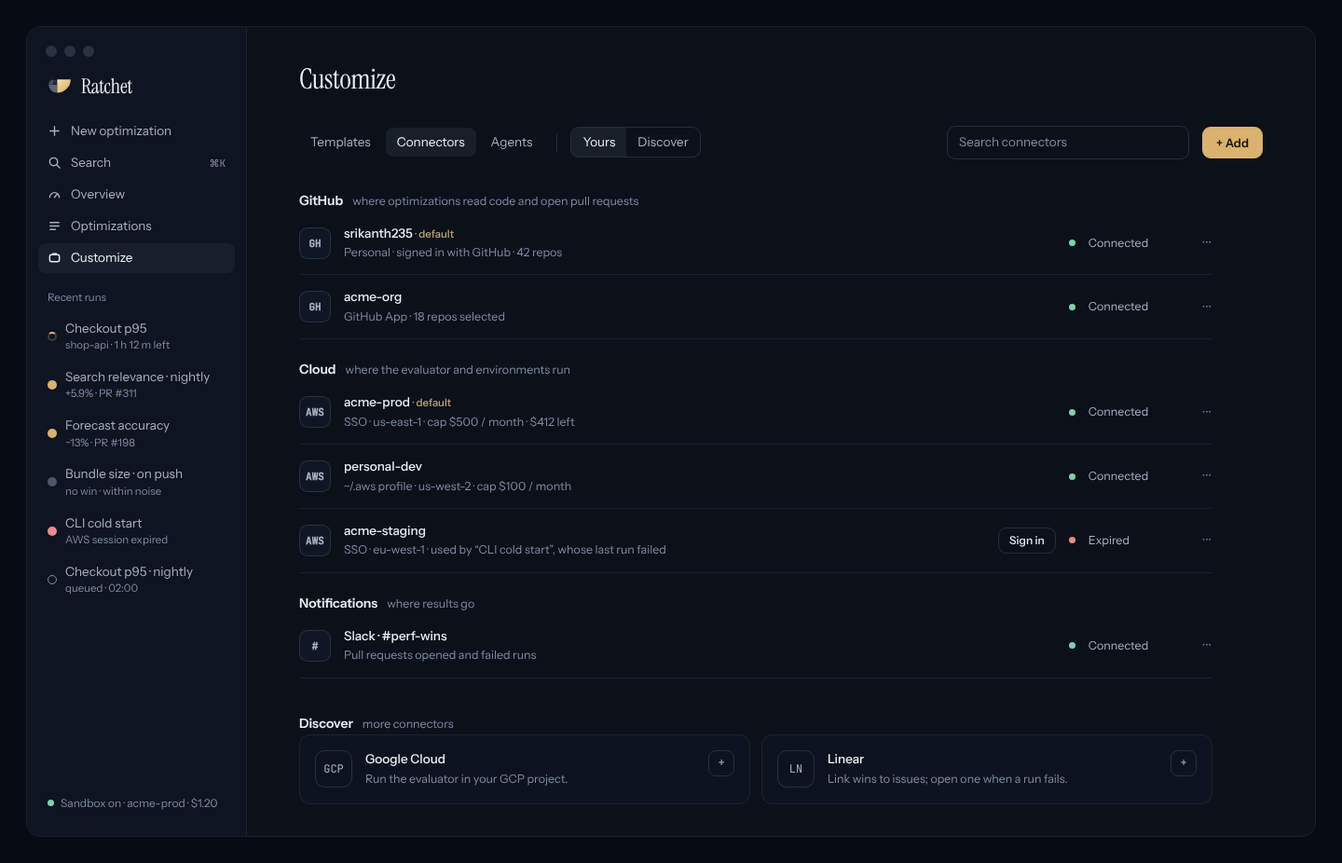
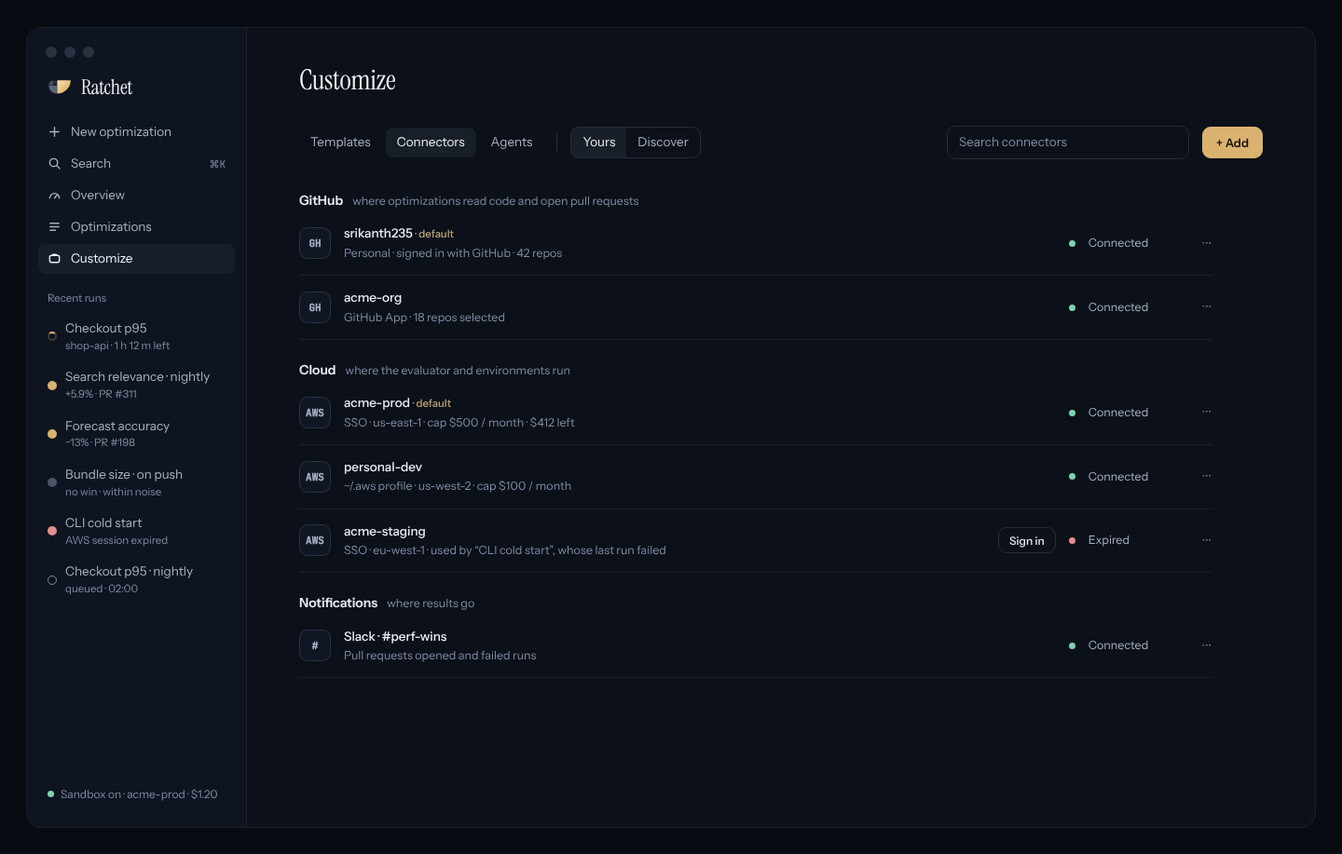
design: Connectors Discover modelled on Claude Code's, Yours shows only your connectors
Claude-Session: https://claude.ai/code/session_01Czk5jfyEWGE8foNtLNfpUK

diff --git a/design/v03-prototype.html b/design/v03-prototype.html
@@ -156,6 +156,25 @@ td .s{color:var(--fa);font-size:12.5px}
 .def .kv>div{padding:10px 0}
 .def .ft{padding:12px 18px;border-top:1px solid var(--line);display:flex;gap:10px;align-items:center}
 .edit{color:var(--br2);font-size:12px;margin-left:8px}
+
+/* connectors discover (modelled on Claude Code's Customize > Connectors) */
+.cur-hero{position:relative;border:1px solid var(--line2);border-radius:16px;padding:30px 80px 30px;text-align:center;background:linear-gradient(180deg,#0F1622 0%,#121B29 45%,#1E2430 100%)}
+.cur-hero .ey{font-size:11.5px;letter-spacing:.1em;text-transform:uppercase;color:var(--fa)}
+.cur-hero .tt{font-family:'Instrument Serif',Georgia,serif;font-size:30px;margin-top:6px}
+.cur-hero .sb{color:var(--mu);margin-top:4px}
+.logos{display:flex;justify-content:center;align-items:center;gap:18px;margin:26px 0 22px}
+.lg{border-radius:14px;background:#151D2B;border:1px solid var(--line2);display:flex;align-items:center;justify-content:center;box-shadow:0 10px 30px rgba(0,0,0,.35)}
+.lg i{display:flex;align-items:center;justify-content:center;border-radius:9px;font:700 15px 'Instrument Sans',sans-serif;font-style:normal;color:#fff}
+.arr{position:absolute;top:50%;transform:translateY(-50%);width:36px;height:36px;border-radius:18px;background:#151D2B;border:1px solid var(--line2);display:flex;align-items:center;justify-content:center;color:var(--mu)}
+.dots{display:flex;justify-content:center;gap:6px;margin-top:12px}.dots i{width:7px;height:7px;border-radius:4px;background:var(--line2)}.dots i.on{width:28px;background:var(--mu)}
+.cgrid{display:grid;grid-template-columns:1fr 1fr;gap:12px}
+.cc{border-radius:14px;background:#0F1520;border:1px solid var(--line);padding:16px;display:flex;gap:14px;align-items:flex-start}
+.cc .lg{width:46px;height:46px;flex:none;box-shadow:none}.cc .lg i{width:30px;height:30px;font-size:13px}
+.cc .n{font-weight:500;display:flex;align-items:center;gap:6px}.cc .d{color:var(--mu);margin-top:3px}.cc .by{color:var(--fa);font-size:12.5px;margin-top:4px}
+.vf{color:var(--fa)}
+.add{margin-left:auto;flex:none;width:30px;height:30px;border-radius:8px;border:1px solid var(--line2);display:flex;align-items:center;justify-content:center;color:var(--mu);font-size:16px}
+.add.done{background:rgba(127,209,174,.12);border-color:rgba(127,209,174,.35);color:var(--mint)}
+.cnt{font:12px 'JetBrains Mono',monospace;color:var(--fa);border:1px solid var(--line2);border-radius:6px;padding:1px 7px;margin-left:8px}
 </style>
 <style>
 :root{color-scheme:dark}
@@ -168,7 +187,7 @@ body{padding-block:16px;padding-left:max(16px,env(safe-area-inset-left,0px));pad
 .hs{margin-left:auto}.hs[aria-pressed="true"]{color:var(--br2);border-color:var(--br2)}
 .stage{width:1440px;margin:0 auto}
 .screen{display:none;padding:0!important;width:1440px}.screen.cur{display:block}
-.nv,.run,.btn,.tabs span,.seg2 span,.send,.sugg span,.tog,.mnav .i,.link,.edit,.chip,.tile .plus,.sel,.composer{cursor:pointer}
+.nv,.run,.btn,.tabs span,.seg2 span,.send,.sugg span,.tog,.mnav .i,.link,.edit,.chip,.tile .plus,.sel,.composer,.add,.arr,.cur-hero .btn{cursor:pointer}
 .nv:hover,.run:hover{background:rgba(148,163,190,.07)}
 .btn:hover,.sugg span:hover,.chip:hover{border-color:var(--br2)}
 .hot .nv,.hot .run,.hot .btn,.hot .tabs span,.hot .seg2 span,.hot .send,.hot .sugg span,.hot .tog,.hot .mnav .i,.hot .link,.hot .edit,.hot .composer{outline:1px dashed rgba(217,178,111,.7);outline-offset:1px}
@@ -178,7 +197,7 @@ body{padding-block:16px;padding-left:max(16px,env(safe-area-inset-left,0px));pad
 :focus-visible{outline:2px solid var(--br2);outline-offset:2px}
 @media (prefers-reduced-motion:reduce){.toast{transition:none}}
 </style>
-<div class="pbar"><span class="nm">Ratchet v0.3 · clickable prototype</span><button type="button" class="pj" data-go="s1">Home</button><button type="button" class="pj" data-go="s9">Overview</button><button type="button" class="pj" data-go="s2">Run</button><button type="button" class="pj" data-go="s3">Optimization</button><button type="button" class="pj" data-go="s4">Templates</button><button type="button" class="pj" data-go="s5">Connectors</button><button type="button" class="pj" data-go="s6">Settings</button><button type="button" class="pj" data-go="s7">Agents</button><button type="button" class="pj" data-go="s8">New optimization</button><button type="button" class="hs" aria-pressed="false">Show hotspots</button></div>
+<div class="pbar"><span class="nm">Ratchet v0.3 · clickable prototype</span><button type="button" class="pj" data-go="s1">Home</button><button type="button" class="pj" data-go="s9">Overview</button><button type="button" class="pj" data-go="s2">Run</button><button type="button" class="pj" data-go="s3">Optimization</button><button type="button" class="pj" data-go="s4">Templates</button><button type="button" class="pj" data-go="s5">Connectors</button><button type="button" class="pj" data-go="s10">Connectors · Discover</button><button type="button" class="pj" data-go="s6">Settings</button><button type="button" class="pj" data-go="s7">Agents</button><button type="button" class="pj" data-go="s8">New optimization</button><button type="button" class="hs" aria-pressed="false">Show hotspots</button></div>
 <div class="stage"><section class="screen" id="s1"><div class="win"><div class="side"><div class="lights" style="padding:4px 8px 14px"><i></i><i></i><i></i></div>
 <div style="display:flex;align-items:center;gap:10px;padding:0 10px 14px"><svg width="26" height="15" viewBox="218 338 600 369"><defs><linearGradient id="brassM" x1="0" y1="0" x2="1" y2="1"><stop offset="0" stop-color="#F8E4B8"/><stop offset=".6" stop-color="#E2BE7C"/><stop offset="1" stop-color="#BE8F49"/></linearGradient></defs><path d="M397.8 434.8L397.8 466.2A31.5 31.5 0 0 1 366.4 434.8Z" fill="#8E9BB2" fill-opacity="0.12"/><path d="M407.7 434.8L407.7 466.2A31.5 31.5 0 0 0 439.2 434.8Z" fill="#8E9BB2" fill-opacity="0.18"/><path d="M361.6 424.9L439.2 424.9A77.6 77.6 0 0 0 361.6 347.3Z" fill="#8E9BB2" fill-opacity="0.28"/><path d="M351.7 471.0L227.9 471.0A123.8 123.8 0 0 1 351.7 347.3Z" fill="#8E9BB2" fill-opacity="0.42"/><path d="M444.0 480.9L444.0 697.0A216.1 216.1 0 0 1 227.9 480.9Z" fill="#8E9BB2" fill-opacity="0.6"/><path d="M453.9 342.5L453.9 697.0A354.5 354.5 0 0 0 808.4 342.5Z" fill="url(#brassM)"/></svg><span class="serif" style="font-size:22px">Ratchet</span></div>
 <div class="nv on"><svg width="15" height="15" viewBox="0 0 16 16" fill="none" stroke="currentColor" stroke-width="1.5" stroke-linecap="round" stroke-linejoin="round"><path d="M8 3v10M3 8h10"/></svg><span>New optimization</span></div>
@@ -333,10 +352,24 @@ body{padding-block:16px;padding-left:max(16px,env(safe-area-inset-left,0px));pad
 <div class="grp" style="margin-top:22px"><b>Notifications</b> where results go</div>
 <div class="row"><span class="logo">#</span><div style="flex:1"><div class="n">Slack · #perf-wins</div><div class="d">Pull requests opened and failed runs</div></div><span class="st"><span class="dot d-ok"></span>Connected</span><span class="more">···</span></div>
 </div>
-<div style="max-width:980px;margin-top:4px"><div class="grp"><b>Discover</b> more connectors</div><div class="grid2c">
-<div class="tile"><span class="ico">GCP</span><div><div class="n">Google Cloud</div><div class="d">Run the evaluator in your GCP project.</div></div><span class="plus">+</span></div>
-<div class="tile"><span class="ico">LN</span><div><div class="n">Linear</div><div class="d">Link wins to issues; open one when a run fails.</div></div><span class="plus">+</span></div>
-</div></div></div></div></section><section class="screen" id="s6"><div class="win" style="position:relative"><div class="side"><div class="lights" style="padding:4px 8px 14px"><i></i><i></i><i></i></div>
+</div></div></section><section class="screen" id="s10"><div class="win" style="position:relative"><div class="side"><div class="lights" style="padding:4px 8px 14px"><i></i><i></i><i></i></div>
+<div style="display:flex;align-items:center;gap:10px;padding:0 10px 14px"><svg width="26" height="15" viewBox="218 338 600 369"><defs><linearGradient id="brassM" x1="0" y1="0" x2="1" y2="1"><stop offset="0" stop-color="#F8E4B8"/><stop offset=".6" stop-color="#E2BE7C"/><stop offset="1" stop-color="#BE8F49"/></linearGradient></defs><path d="M397.8 434.8L397.8 466.2A31.5 31.5 0 0 1 366.4 434.8Z" fill="#8E9BB2" fill-opacity="0.12"/><path d="M407.7 434.8L407.7 466.2A31.5 31.5 0 0 0 439.2 434.8Z" fill="#8E9BB2" fill-opacity="0.18"/><path d="M361.6 424.9L439.2 424.9A77.6 77.6 0 0 0 361.6 347.3Z" fill="#8E9BB2" fill-opacity="0.28"/><path d="M351.7 471.0L227.9 471.0A123.8 123.8 0 0 1 351.7 347.3Z" fill="#8E9BB2" fill-opacity="0.42"/><path d="M444.0 480.9L444.0 697.0A216.1 216.1 0 0 1 227.9 480.9Z" fill="#8E9BB2" fill-opacity="0.6"/><path d="M453.9 342.5L453.9 697.0A354.5 354.5 0 0 0 808.4 342.5Z" fill="url(#brassM)"/></svg><span class="serif" style="font-size:22px">Ratchet</span></div>
+<div class="nv "><svg width="15" height="15" viewBox="0 0 16 16" fill="none" stroke="currentColor" stroke-width="1.5" stroke-linecap="round" stroke-linejoin="round"><path d="M8 3v10M3 8h10"/></svg><span>New optimization</span></div>
+<div class="nv "><svg width="15" height="15" viewBox="0 0 16 16" fill="none" stroke="currentColor" stroke-width="1.5" stroke-linecap="round" stroke-linejoin="round"><circle cx="7" cy="7" r="4.5"/><path d="M10.5 10.5 14 14"/></svg><span>Search</span><kbd>⌘K</kbd></div>
+<div class="nv "><svg width="15" height="15" viewBox="0 0 16 16" fill="none" stroke="currentColor" stroke-width="1.5" stroke-linecap="round" stroke-linejoin="round"><path d="M2.5 11.5a5.5 5.5 0 1 1 11 0"/><path d="M8 11.5l2.8-3.6"/></svg><span>Overview</span></div>
+<div class="nv "><svg width="15" height="15" viewBox="0 0 16 16" fill="none" stroke="currentColor" stroke-width="1.5" stroke-linecap="round" stroke-linejoin="round"><path d="M3 4h10M3 8h10M3 12h6"/></svg><span>Optimizations</span></div>
+<div class="nv on"><svg width="15" height="15" viewBox="0 0 16 16" fill="none" stroke="currentColor" stroke-width="1.5" stroke-linecap="round" stroke-linejoin="round"><rect x="2.5" y="4.5" width="11" height="8" rx="2"/><path d="M6 4.5V3.5h4v1"/></svg><span>Customize</span></div>
+<div class="sec">Recent runs</div><div class="run "><span class="spin"></span><div style="flex:1;min-width:0"><div class="ttl">Checkout p95</div><div class="meta">shop-api · 1 h 12 m left</div></div></div><div class="run "><span class="ic gold"></span><div style="flex:1;min-width:0"><div class="ttl">Search relevance · nightly</div><div class="meta">+5.9% · PR #311</div></div></div><div class="run "><span class="ic gold"></span><div style="flex:1;min-width:0"><div class="ttl">Forecast accuracy</div><div class="meta">−13% · PR #198</div></div></div><div class="run "><span class="ic no"></span><div style="flex:1;min-width:0"><div class="ttl">Bundle size · on push</div><div class="meta">no win · within noise</div></div></div><div class="run "><span class="ic fail"></span><div style="flex:1;min-width:0"><div class="ttl">CLI cold start</div><div class="meta">AWS session expired</div></div></div><div class="run "><span class="ic q"></span><div style="flex:1;min-width:0"><div class="ttl">Checkout p95 · nightly</div><div class="meta">queued · 02:00</div></div></div><div style="margin-top:auto;padding:10px;color:var(--fa);font-size:12px"><span class="dot d-ok"></span>Sandbox on · acme-prod · $1.20</div></div><div class="main">
+<div class="rh"><div class="serif" style="font-size:30px">Customize</div></div>
+<div style="display:flex;align-items:center;gap:14px"><div class="tabs"><span>Templates</span><span class="on">Connectors</span><span>Agents</span></div><span style="width:1px;height:20px;background:var(--line2)"></span><div class="seg2"><span>Yours</span><span class="on">Discover</span></div>
+<div class="field" style="max-width:260px;margin-left:auto">Search connectors</div><span class="btn pri">+ Add ▾</span></div>
+<div><div class="cur-hero"><span class="arr" style="left:20px">‹</span><span class="arr" style="right:20px">›</span>
+<div class="ey">Curated by Ratchet</div><div class="tt">Measure against production</div><div class="sb">Pull real traffic shapes and baselines from your observability stack, so wins hold up after merge.</div>
+<div class="logos"><div style="margin-top:0px"><span class="lg" style="width:74px;height:74px"><i style="width:50px;height:50px;background:#632CA6;font-size:17px">Dd</i></span></div><div style="margin-top:30px"><span class="lg" style="width:88px;height:88px"><i style="width:59px;height:59px;background:#E2662A;font-size:21px">Gf</i></span></div><div style="margin-top:-10px"><span class="lg" style="width:112px;height:112px"><i style="width:76px;height:76px;background:#2C6CE5;font-size:26px">Hc</i></span></div><div style="margin-top:36px"><span class="lg" style="width:80px;height:80px"><i style="width:54px;height:54px;background:#362D59;font-size:19px">Se</i></span></div><div style="margin-top:-6px"><span class="lg" style="width:96px;height:96px"><i style="width:65px;height:65px;background:#1A7F64;font-size:23px">NR</i></span></div><div style="margin-top:22px"><span class="lg" style="width:78px;height:78px"><i style="width:53px;height:53px;background:#C4462B;font-size:18px">Pm</i></span></div></div><span class="btn">Explore</span></div>
+<div class="dots"><i></i><i class="on"></i><i></i></div></div>
+<div><div style="display:flex;align-items:baseline;margin-bottom:14px"><span style="font-weight:600;font-size:14px">Top connectors</span><span class="cnt">24</span><span class="link" style="margin-left:auto;font-family:inherit">Show all →</span></div>
+<div class="cgrid"><div class="cc"><span class="lg"><i style="background:#24292F;font-size:13px">GH</i></span><div style="flex:1;min-width:0"><div class="n">GitHub <svg class="vf" width="14" height="14" viewBox="0 0 16 16" fill="none" stroke="currentColor" stroke-width="1.3"><path d="M8 1.5l1.6 1.2 2-.1.6 1.9 1.6 1.2-.6 1.9.6 1.9-1.6 1.2-.6 1.9-2-.1L8 14.5l-1.6-1.2-2 .1-.6-1.9-1.6-1.2.6-1.9-.6-1.9 1.6-1.2.6-1.9 2 .1z"/><path d="M5.6 8.2l1.6 1.6 3.2-3.4"/></svg></div><div class="d">Read code and open pull requests with wins</div><div class="by">by Ratchet</div></div><span class="add done">✓</span></div><div class="cc"><span class="lg"><i style="background:#B9702A;font-size:10px">AWS</i></span><div style="flex:1;min-width:0"><div class="n">Amazon Web Services <svg class="vf" width="14" height="14" viewBox="0 0 16 16" fill="none" stroke="currentColor" stroke-width="1.3"><path d="M8 1.5l1.6 1.2 2-.1.6 1.9 1.6 1.2-.6 1.9.6 1.9-1.6 1.2-.6 1.9-2-.1L8 14.5l-1.6-1.2-2 .1-.6-1.9-1.6-1.2.6-1.9-.6-1.9 1.6-1.2.6-1.9 2 .1z"/><path d="M5.6 8.2l1.6 1.6 3.2-3.4"/></svg></div><div class="d">Run the evaluator and environments in your account</div><div class="by">by Ratchet</div></div><span class="add done">✓</span></div><div class="cc"><span class="lg"><i style="background:#3A6FD8;font-size:10px">GCP</i></span><div style="flex:1;min-width:0"><div class="n">Google Cloud <svg class="vf" width="14" height="14" viewBox="0 0 16 16" fill="none" stroke="currentColor" stroke-width="1.3"><path d="M8 1.5l1.6 1.2 2-.1.6 1.9 1.6 1.2-.6 1.9.6 1.9-1.6 1.2-.6 1.9-2-.1L8 14.5l-1.6-1.2-2 .1-.6-1.9-1.6-1.2.6-1.9-.6-1.9 1.6-1.2.6-1.9 2 .1z"/><path d="M5.6 8.2l1.6 1.6 3.2-3.4"/></svg></div><div class="d">Run the evaluator and environments in your GCP project</div><div class="by">by Ratchet</div></div><span class="add">+</span></div><div class="cc"><span class="lg"><i style="background:#1F6FC0;font-size:13px">Az</i></span><div style="flex:1;min-width:0"><div class="n">Microsoft Azure <svg class="vf" width="14" height="14" viewBox="0 0 16 16" fill="none" stroke="currentColor" stroke-width="1.3"><path d="M8 1.5l1.6 1.2 2-.1.6 1.9 1.6 1.2-.6 1.9.6 1.9-1.6 1.2-.6 1.9-2-.1L8 14.5l-1.6-1.2-2 .1-.6-1.9-1.6-1.2.6-1.9-.6-1.9 1.6-1.2.6-1.9 2 .1z"/><path d="M5.6 8.2l1.6 1.6 3.2-3.4"/></svg></div><div class="d">Run the evaluator in an Azure subscription</div><div class="by">by Ratchet</div></div><span class="add">+</span></div><div class="cc"><span class="lg"><i style="background:#C2491D;font-size:13px">GL</i></span><div style="flex:1;min-width:0"><div class="n">GitLab <svg class="vf" width="14" height="14" viewBox="0 0 16 16" fill="none" stroke="currentColor" stroke-width="1.3"><path d="M8 1.5l1.6 1.2 2-.1.6 1.9 1.6 1.2-.6 1.9.6 1.9-1.6 1.2-.6 1.9-2-.1L8 14.5l-1.6-1.2-2 .1-.6-1.9-1.6-1.2.6-1.9-.6-1.9 1.6-1.2.6-1.9 2 .1z"/><path d="M5.6 8.2l1.6 1.6 3.2-3.4"/></svg></div><div class="d">Read code and open merge requests</div><div class="by">by Ratchet</div></div><span class="add">+</span></div><div class="cc"><span class="lg"><i style="background:#632CA6;font-size:13px">Dd</i></span><div style="flex:1;min-width:0"><div class="n">Datadog <svg class="vf" width="14" height="14" viewBox="0 0 16 16" fill="none" stroke="currentColor" stroke-width="1.3"><path d="M8 1.5l1.6 1.2 2-.1.6 1.9 1.6 1.2-.6 1.9.6 1.9-1.6 1.2-.6 1.9-2-.1L8 14.5l-1.6-1.2-2 .1-.6-1.9-1.6-1.2.6-1.9-.6-1.9 1.6-1.2.6-1.9 2 .1z"/><path d="M5.6 8.2l1.6 1.6 3.2-3.4"/></svg></div><div class="d">Baselines and traffic shape from production APM</div><div class="by">by Datadog</div></div><span class="add">+</span></div><div class="cc"><span class="lg"><i style="background:#4A154B;font-size:13px">#</i></span><div style="flex:1;min-width:0"><div class="n">Slack <svg class="vf" width="14" height="14" viewBox="0 0 16 16" fill="none" stroke="currentColor" stroke-width="1.3"><path d="M8 1.5l1.6 1.2 2-.1.6 1.9 1.6 1.2-.6 1.9.6 1.9-1.6 1.2-.6 1.9-2-.1L8 14.5l-1.6-1.2-2 .1-.6-1.9-1.6-1.2.6-1.9-.6-1.9 1.6-1.2.6-1.9 2 .1z"/><path d="M5.6 8.2l1.6 1.6 3.2-3.4"/></svg></div><div class="d">Post opened pull requests and failed runs</div><div class="by">by Slack</div></div><span class="add done">✓</span></div><div class="cc"><span class="lg"><i style="background:#4F57C9;font-size:13px">LN</i></span><div style="flex:1;min-width:0"><div class="n">Linear <svg class="vf" width="14" height="14" viewBox="0 0 16 16" fill="none" stroke="currentColor" stroke-width="1.3"><path d="M8 1.5l1.6 1.2 2-.1.6 1.9 1.6 1.2-.6 1.9.6 1.9-1.6 1.2-.6 1.9-2-.1L8 14.5l-1.6-1.2-2 .1-.6-1.9-1.6-1.2.6-1.9-.6-1.9 1.6-1.2.6-1.9 2 .1z"/><path d="M5.6 8.2l1.6 1.6 3.2-3.4"/></svg></div><div class="d">Link wins to issues; file one when a run fails</div><div class="by">by Linear</div></div><span class="add">+</span></div></div></div>
+</div></div></section><section class="screen" id="s6"><div class="win" style="position:relative"><div class="side"><div class="lights" style="padding:4px 8px 14px"><i></i><i></i><i></i></div>
 <div style="display:flex;align-items:center;gap:10px;padding:0 10px 14px"><svg width="26" height="15" viewBox="218 338 600 369"><defs><linearGradient id="brassM" x1="0" y1="0" x2="1" y2="1"><stop offset="0" stop-color="#F8E4B8"/><stop offset=".6" stop-color="#E2BE7C"/><stop offset="1" stop-color="#BE8F49"/></linearGradient></defs><path d="M397.8 434.8L397.8 466.2A31.5 31.5 0 0 1 366.4 434.8Z" fill="#8E9BB2" fill-opacity="0.12"/><path d="M407.7 434.8L407.7 466.2A31.5 31.5 0 0 0 439.2 434.8Z" fill="#8E9BB2" fill-opacity="0.18"/><path d="M361.6 424.9L439.2 424.9A77.6 77.6 0 0 0 361.6 347.3Z" fill="#8E9BB2" fill-opacity="0.28"/><path d="M351.7 471.0L227.9 471.0A123.8 123.8 0 0 1 351.7 347.3Z" fill="#8E9BB2" fill-opacity="0.42"/><path d="M444.0 480.9L444.0 697.0A216.1 216.1 0 0 1 227.9 480.9Z" fill="#8E9BB2" fill-opacity="0.6"/><path d="M453.9 342.5L453.9 697.0A354.5 354.5 0 0 0 808.4 342.5Z" fill="url(#brassM)"/></svg><span class="serif" style="font-size:22px">Ratchet</span></div>
 <div class="nv on"><svg width="15" height="15" viewBox="0 0 16 16" fill="none" stroke="currentColor" stroke-width="1.5" stroke-linecap="round" stroke-linejoin="round"><path d="M8 3v10M3 8h10"/></svg><span>New optimization</span></div>
 <div class="nv "><svg width="15" height="15" viewBox="0 0 16 16" fill="none" stroke="currentColor" stroke-width="1.5" stroke-linecap="round" stroke-linejoin="round"><circle cx="7" cy="7" r="4.5"/><path d="M10.5 10.5 14 14"/></svg><span>Search</span><kbd>⌘K</kbd></div>
@@ -427,7 +460,7 @@ body{padding-block:16px;padding-left:max(16px,env(safe-area-inset-left,0px));pad
 <div class="toast" role="status" aria-live="polite"></div>
 <script>
 (function(){
-const N={"s1": "Home", "s2": "Run", "s3": "Optimization", "s4": "Templates", "s5": "Connectors", "s6": "Settings", "s7": "Agents", "s8": "New optimization", "s9": "Overview"};
+const N={"s1": "Home", "s2": "Run", "s3": "Optimization", "s4": "Templates", "s5": "Connectors", "s6": "Settings", "s7": "Agents", "s8": "New optimization", "s9": "Overview", "s10": "Connectors · Discover"};
 let cur='s9',prev='s9';
 const stage=document.querySelector('.stage');
 function fit(){const w=Math.min(1,(document.documentElement.clientWidth-32)/1440);stage.style.zoom=w;document.querySelector('.pbar').style.maxWidth=(1440*w)+'px'}
@@ -449,7 +482,9 @@ document.addEventListener('click',ev=>{
  if(cur==='s6'&&el.closest('#s6')&&!el.closest('.modal')&&!el.closest('.side'))return go(prev);
  if(x=el.closest('.nv')){const k=t(x.querySelector('span')||x);if(k==='Search')toast('Search: ⌘K');return go(nav[k]||'s1')}
  if(x=el.closest('.run')){return go(/queued/.test(x.textContent)?'s3':'s2')}
- if(x=el.closest('.tabs span,.seg2 span,.mnav .i')){const g=x.parentElement;g.querySelectorAll(':scope>.on').forEach(o=>o.classList.remove('on'));x.classList.add('on');const k=t(x);if(tabs[k])go(tabs[k]);return}
+ if(x=el.closest('.tabs span,.seg2 span,.mnav .i')){const g=x.parentElement;g.querySelectorAll(':scope>.on').forEach(o=>o.classList.remove('on'));x.classList.add('on');const k=t(x);if((cur==='s5'||cur==='s10')&&(k==='Yours'||k==='Discover'))return go(k==='Yours'?'s5':'s10');if(tabs[k])go(tabs[k]);return}
+ if(x=el.closest('.add')){const on=!x.classList.contains('done');x.classList.toggle('done',on);x.textContent=on?'✓':'+';const n=x.parentElement.querySelector('.n').textContent.trim();return toast(on?n+' added · pick it per optimization':n+' removed')}
+ if(x=el.closest('.arr')){return toast('Next collection: Cloud providers')}
  if(x=el.closest('.tog')){x.classList.toggle('on');return}
  if(x=el.closest('.btn')){const k=t(x);
   if(k==='Create optimization'){toast('Created · first run tonight at 02:00');return go('s3')}
@@ -460,7 +495,8 @@ document.addEventListener('click',ev=>{
   if(k==='Pause'){x.textContent='Resume';return toast('Paused · no runs until you resume')}
   if(k==='Resume'){x.textContent='Pause';return toast('Resumed')}
   if(k==='Sign in')return toast('Opens codex login in Terminal');
-  if(k==='+ Add')return toast('Add a connector');
+  if(/^\+ Add/.test(k))return toast('Add a connector: GitHub, cloud, notifications or custom MCP');
+  if(k==='Explore')return toast('Observability connectors: Datadog, Grafana, Honeycomb, Sentry, New Relic, Prometheus');
   return toast(k)}
  if(cur==='s1'&&(x=el.closest('.send,.sugg span,.composer')))return go('s8');
  if(x=el.closest('.edit'))return toast('Edit inline, or say it in plain words below');

diff --git a/design/v03.html b/design/v03.html
@@ -154,6 +154,25 @@ td .s{color:var(--fa);font-size:12.5px}
 .def .kv>div{padding:10px 0}
 .def .ft{padding:12px 18px;border-top:1px solid var(--line);display:flex;gap:10px;align-items:center}
 .edit{color:var(--br2);font-size:12px;margin-left:8px}
+
+/* connectors discover (modelled on Claude Code's Customize > Connectors) */
+.cur-hero{position:relative;border:1px solid var(--line2);border-radius:16px;padding:30px 80px 30px;text-align:center;background:linear-gradient(180deg,#0F1622 0%,#121B29 45%,#1E2430 100%)}
+.cur-hero .ey{font-size:11.5px;letter-spacing:.1em;text-transform:uppercase;color:var(--fa)}
+.cur-hero .tt{font-family:'Instrument Serif',Georgia,serif;font-size:30px;margin-top:6px}
+.cur-hero .sb{color:var(--mu);margin-top:4px}
+.logos{display:flex;justify-content:center;align-items:center;gap:18px;margin:26px 0 22px}
+.lg{border-radius:14px;background:#151D2B;border:1px solid var(--line2);display:flex;align-items:center;justify-content:center;box-shadow:0 10px 30px rgba(0,0,0,.35)}
+.lg i{display:flex;align-items:center;justify-content:center;border-radius:9px;font:700 15px 'Instrument Sans',sans-serif;font-style:normal;color:#fff}
+.arr{position:absolute;top:50%;transform:translateY(-50%);width:36px;height:36px;border-radius:18px;background:#151D2B;border:1px solid var(--line2);display:flex;align-items:center;justify-content:center;color:var(--mu)}
+.dots{display:flex;justify-content:center;gap:6px;margin-top:12px}.dots i{width:7px;height:7px;border-radius:4px;background:var(--line2)}.dots i.on{width:28px;background:var(--mu)}
+.cgrid{display:grid;grid-template-columns:1fr 1fr;gap:12px}
+.cc{border-radius:14px;background:#0F1520;border:1px solid var(--line);padding:16px;display:flex;gap:14px;align-items:flex-start}
+.cc .lg{width:46px;height:46px;flex:none;box-shadow:none}.cc .lg i{width:30px;height:30px;font-size:13px}
+.cc .n{font-weight:500;display:flex;align-items:center;gap:6px}.cc .d{color:var(--mu);margin-top:3px}.cc .by{color:var(--fa);font-size:12.5px;margin-top:4px}
+.vf{color:var(--fa)}
+.add{margin-left:auto;flex:none;width:30px;height:30px;border-radius:8px;border:1px solid var(--line2);display:flex;align-items:center;justify-content:center;color:var(--mu);font-size:16px}
+.add.done{background:rgba(127,209,174,.12);border-color:rgba(127,209,174,.35);color:var(--mint)}
+.cnt{font:12px 'JetBrains Mono',monospace;color:var(--fa);border:1px solid var(--line2);border-radius:6px;padding:1px 7px;margin-left:8px}
 </style></head><body>
 <section class="screen" id="s1"><div class="win"><div class="side"><div class="lights" style="padding:4px 8px 14px"><i></i><i></i><i></i></div>
 <div style="display:flex;align-items:center;gap:10px;padding:0 10px 14px"><svg width="26" height="15" viewBox="218 338 600 369"><defs><linearGradient id="brassM" x1="0" y1="0" x2="1" y2="1"><stop offset="0" stop-color="#F8E4B8"/><stop offset=".6" stop-color="#E2BE7C"/><stop offset="1" stop-color="#BE8F49"/></linearGradient></defs><path d="M397.8 434.8L397.8 466.2A31.5 31.5 0 0 1 366.4 434.8Z" fill="#8E9BB2" fill-opacity="0.12"/><path d="M407.7 434.8L407.7 466.2A31.5 31.5 0 0 0 439.2 434.8Z" fill="#8E9BB2" fill-opacity="0.18"/><path d="M361.6 424.9L439.2 424.9A77.6 77.6 0 0 0 361.6 347.3Z" fill="#8E9BB2" fill-opacity="0.28"/><path d="M351.7 471.0L227.9 471.0A123.8 123.8 0 0 1 351.7 347.3Z" fill="#8E9BB2" fill-opacity="0.42"/><path d="M444.0 480.9L444.0 697.0A216.1 216.1 0 0 1 227.9 480.9Z" fill="#8E9BB2" fill-opacity="0.6"/><path d="M453.9 342.5L453.9 697.0A354.5 354.5 0 0 0 808.4 342.5Z" fill="url(#brassM)"/></svg><span class="serif" style="font-size:22px">Ratchet</span></div>
@@ -314,10 +333,25 @@ td .s{color:var(--fa);font-size:12.5px}
 <div class="grp" style="margin-top:22px"><b>Notifications</b> where results go</div>
 <div class="row"><span class="logo">#</span><div style="flex:1"><div class="n">Slack · #perf-wins</div><div class="d">Pull requests opened and failed runs</div></div><span class="st"><span class="dot d-ok"></span>Connected</span><span class="more">···</span></div>
 </div>
-<div style="max-width:980px;margin-top:4px"><div class="grp"><b>Discover</b> more connectors</div><div class="grid2c">
-<div class="tile"><span class="ico">GCP</span><div><div class="n">Google Cloud</div><div class="d">Run the evaluator in your GCP project.</div></div><span class="plus">+</span></div>
-<div class="tile"><span class="ico">LN</span><div><div class="n">Linear</div><div class="d">Link wins to issues; open one when a run fails.</div></div><span class="plus">+</span></div>
-</div></div></div></div></section><section class="screen" id="s6"><div class="win" style="position:relative"><div class="side"><div class="lights" style="padding:4px 8px 14px"><i></i><i></i><i></i></div>
+</div></div></section>
+<section class="screen" id="s10"><div class="win" style="position:relative"><div class="side"><div class="lights" style="padding:4px 8px 14px"><i></i><i></i><i></i></div>
+<div style="display:flex;align-items:center;gap:10px;padding:0 10px 14px"><svg width="26" height="15" viewBox="218 338 600 369"><defs><linearGradient id="brassM" x1="0" y1="0" x2="1" y2="1"><stop offset="0" stop-color="#F8E4B8"/><stop offset=".6" stop-color="#E2BE7C"/><stop offset="1" stop-color="#BE8F49"/></linearGradient></defs><path d="M397.8 434.8L397.8 466.2A31.5 31.5 0 0 1 366.4 434.8Z" fill="#8E9BB2" fill-opacity="0.12"/><path d="M407.7 434.8L407.7 466.2A31.5 31.5 0 0 0 439.2 434.8Z" fill="#8E9BB2" fill-opacity="0.18"/><path d="M361.6 424.9L439.2 424.9A77.6 77.6 0 0 0 361.6 347.3Z" fill="#8E9BB2" fill-opacity="0.28"/><path d="M351.7 471.0L227.9 471.0A123.8 123.8 0 0 1 351.7 347.3Z" fill="#8E9BB2" fill-opacity="0.42"/><path d="M444.0 480.9L444.0 697.0A216.1 216.1 0 0 1 227.9 480.9Z" fill="#8E9BB2" fill-opacity="0.6"/><path d="M453.9 342.5L453.9 697.0A354.5 354.5 0 0 0 808.4 342.5Z" fill="url(#brassM)"/></svg><span class="serif" style="font-size:22px">Ratchet</span></div>
+<div class="nv "><svg width="15" height="15" viewBox="0 0 16 16" fill="none" stroke="currentColor" stroke-width="1.5" stroke-linecap="round" stroke-linejoin="round"><path d="M8 3v10M3 8h10"/></svg><span>New optimization</span></div>
+<div class="nv "><svg width="15" height="15" viewBox="0 0 16 16" fill="none" stroke="currentColor" stroke-width="1.5" stroke-linecap="round" stroke-linejoin="round"><circle cx="7" cy="7" r="4.5"/><path d="M10.5 10.5 14 14"/></svg><span>Search</span><kbd>⌘K</kbd></div>
+<div class="nv "><svg width="15" height="15" viewBox="0 0 16 16" fill="none" stroke="currentColor" stroke-width="1.5" stroke-linecap="round" stroke-linejoin="round"><path d="M2.5 11.5a5.5 5.5 0 1 1 11 0"/><path d="M8 11.5l2.8-3.6"/></svg><span>Overview</span></div>
+<div class="nv "><svg width="15" height="15" viewBox="0 0 16 16" fill="none" stroke="currentColor" stroke-width="1.5" stroke-linecap="round" stroke-linejoin="round"><path d="M3 4h10M3 8h10M3 12h6"/></svg><span>Optimizations</span></div>
+<div class="nv on"><svg width="15" height="15" viewBox="0 0 16 16" fill="none" stroke="currentColor" stroke-width="1.5" stroke-linecap="round" stroke-linejoin="round"><rect x="2.5" y="4.5" width="11" height="8" rx="2"/><path d="M6 4.5V3.5h4v1"/></svg><span>Customize</span></div>
+<div class="sec">Recent runs</div><div class="run "><span class="spin"></span><div style="flex:1;min-width:0"><div class="ttl">Checkout p95</div><div class="meta">shop-api · 1 h 12 m left</div></div></div><div class="run "><span class="ic gold"></span><div style="flex:1;min-width:0"><div class="ttl">Search relevance · nightly</div><div class="meta">+5.9% · PR #311</div></div></div><div class="run "><span class="ic gold"></span><div style="flex:1;min-width:0"><div class="ttl">Forecast accuracy</div><div class="meta">−13% · PR #198</div></div></div><div class="run "><span class="ic no"></span><div style="flex:1;min-width:0"><div class="ttl">Bundle size · on push</div><div class="meta">no win · within noise</div></div></div><div class="run "><span class="ic fail"></span><div style="flex:1;min-width:0"><div class="ttl">CLI cold start</div><div class="meta">AWS session expired</div></div></div><div class="run "><span class="ic q"></span><div style="flex:1;min-width:0"><div class="ttl">Checkout p95 · nightly</div><div class="meta">queued · 02:00</div></div></div><div style="margin-top:auto;padding:10px;color:var(--fa);font-size:12px"><span class="dot d-ok"></span>Sandbox on · acme-prod · $1.20</div></div><div class="main">
+<div class="rh"><div class="serif" style="font-size:30px">Customize</div></div>
+<div style="display:flex;align-items:center;gap:14px"><div class="tabs"><span>Templates</span><span class="on">Connectors</span><span>Agents</span></div><span style="width:1px;height:20px;background:var(--line2)"></span><div class="seg2"><span>Yours</span><span class="on">Discover</span></div>
+<div class="field" style="max-width:260px;margin-left:auto">Search connectors</div><span class="btn pri">+ Add ▾</span></div>
+<div><div class="cur-hero"><span class="arr" style="left:20px">‹</span><span class="arr" style="right:20px">›</span>
+<div class="ey">Curated by Ratchet</div><div class="tt">Measure against production</div><div class="sb">Pull real traffic shapes and baselines from your observability stack, so wins hold up after merge.</div>
+<div class="logos"><div style="margin-top:0px"><span class="lg" style="width:74px;height:74px"><i style="width:50px;height:50px;background:#632CA6;font-size:17px">Dd</i></span></div><div style="margin-top:30px"><span class="lg" style="width:88px;height:88px"><i style="width:59px;height:59px;background:#E2662A;font-size:21px">Gf</i></span></div><div style="margin-top:-10px"><span class="lg" style="width:112px;height:112px"><i style="width:76px;height:76px;background:#2C6CE5;font-size:26px">Hc</i></span></div><div style="margin-top:36px"><span class="lg" style="width:80px;height:80px"><i style="width:54px;height:54px;background:#362D59;font-size:19px">Se</i></span></div><div style="margin-top:-6px"><span class="lg" style="width:96px;height:96px"><i style="width:65px;height:65px;background:#1A7F64;font-size:23px">NR</i></span></div><div style="margin-top:22px"><span class="lg" style="width:78px;height:78px"><i style="width:53px;height:53px;background:#C4462B;font-size:18px">Pm</i></span></div></div><span class="btn">Explore</span></div>
+<div class="dots"><i></i><i class="on"></i><i></i></div></div>
+<div><div style="display:flex;align-items:baseline;margin-bottom:14px"><span style="font-weight:600;font-size:14px">Top connectors</span><span class="cnt">24</span><span class="link" style="margin-left:auto;font-family:inherit">Show all →</span></div>
+<div class="cgrid"><div class="cc"><span class="lg"><i style="background:#24292F;font-size:13px">GH</i></span><div style="flex:1;min-width:0"><div class="n">GitHub <svg class="vf" width="14" height="14" viewBox="0 0 16 16" fill="none" stroke="currentColor" stroke-width="1.3"><path d="M8 1.5l1.6 1.2 2-.1.6 1.9 1.6 1.2-.6 1.9.6 1.9-1.6 1.2-.6 1.9-2-.1L8 14.5l-1.6-1.2-2 .1-.6-1.9-1.6-1.2.6-1.9-.6-1.9 1.6-1.2.6-1.9 2 .1z"/><path d="M5.6 8.2l1.6 1.6 3.2-3.4"/></svg></div><div class="d">Read code and open pull requests with wins</div><div class="by">by Ratchet</div></div><span class="add done">✓</span></div><div class="cc"><span class="lg"><i style="background:#B9702A;font-size:10px">AWS</i></span><div style="flex:1;min-width:0"><div class="n">Amazon Web Services <svg class="vf" width="14" height="14" viewBox="0 0 16 16" fill="none" stroke="currentColor" stroke-width="1.3"><path d="M8 1.5l1.6 1.2 2-.1.6 1.9 1.6 1.2-.6 1.9.6 1.9-1.6 1.2-.6 1.9-2-.1L8 14.5l-1.6-1.2-2 .1-.6-1.9-1.6-1.2.6-1.9-.6-1.9 1.6-1.2.6-1.9 2 .1z"/><path d="M5.6 8.2l1.6 1.6 3.2-3.4"/></svg></div><div class="d">Run the evaluator and environments in your account</div><div class="by">by Ratchet</div></div><span class="add done">✓</span></div><div class="cc"><span class="lg"><i style="background:#3A6FD8;font-size:10px">GCP</i></span><div style="flex:1;min-width:0"><div class="n">Google Cloud <svg class="vf" width="14" height="14" viewBox="0 0 16 16" fill="none" stroke="currentColor" stroke-width="1.3"><path d="M8 1.5l1.6 1.2 2-.1.6 1.9 1.6 1.2-.6 1.9.6 1.9-1.6 1.2-.6 1.9-2-.1L8 14.5l-1.6-1.2-2 .1-.6-1.9-1.6-1.2.6-1.9-.6-1.9 1.6-1.2.6-1.9 2 .1z"/><path d="M5.6 8.2l1.6 1.6 3.2-3.4"/></svg></div><div class="d">Run the evaluator and environments in your GCP project</div><div class="by">by Ratchet</div></div><span class="add">+</span></div><div class="cc"><span class="lg"><i style="background:#1F6FC0;font-size:13px">Az</i></span><div style="flex:1;min-width:0"><div class="n">Microsoft Azure <svg class="vf" width="14" height="14" viewBox="0 0 16 16" fill="none" stroke="currentColor" stroke-width="1.3"><path d="M8 1.5l1.6 1.2 2-.1.6 1.9 1.6 1.2-.6 1.9.6 1.9-1.6 1.2-.6 1.9-2-.1L8 14.5l-1.6-1.2-2 .1-.6-1.9-1.6-1.2.6-1.9-.6-1.9 1.6-1.2.6-1.9 2 .1z"/><path d="M5.6 8.2l1.6 1.6 3.2-3.4"/></svg></div><div class="d">Run the evaluator in an Azure subscription</div><div class="by">by Ratchet</div></div><span class="add">+</span></div><div class="cc"><span class="lg"><i style="background:#C2491D;font-size:13px">GL</i></span><div style="flex:1;min-width:0"><div class="n">GitLab <svg class="vf" width="14" height="14" viewBox="0 0 16 16" fill="none" stroke="currentColor" stroke-width="1.3"><path d="M8 1.5l1.6 1.2 2-.1.6 1.9 1.6 1.2-.6 1.9.6 1.9-1.6 1.2-.6 1.9-2-.1L8 14.5l-1.6-1.2-2 .1-.6-1.9-1.6-1.2.6-1.9-.6-1.9 1.6-1.2.6-1.9 2 .1z"/><path d="M5.6 8.2l1.6 1.6 3.2-3.4"/></svg></div><div class="d">Read code and open merge requests</div><div class="by">by Ratchet</div></div><span class="add">+</span></div><div class="cc"><span class="lg"><i style="background:#632CA6;font-size:13px">Dd</i></span><div style="flex:1;min-width:0"><div class="n">Datadog <svg class="vf" width="14" height="14" viewBox="0 0 16 16" fill="none" stroke="currentColor" stroke-width="1.3"><path d="M8 1.5l1.6 1.2 2-.1.6 1.9 1.6 1.2-.6 1.9.6 1.9-1.6 1.2-.6 1.9-2-.1L8 14.5l-1.6-1.2-2 .1-.6-1.9-1.6-1.2.6-1.9-.6-1.9 1.6-1.2.6-1.9 2 .1z"/><path d="M5.6 8.2l1.6 1.6 3.2-3.4"/></svg></div><div class="d">Baselines and traffic shape from production APM</div><div class="by">by Datadog</div></div><span class="add">+</span></div><div class="cc"><span class="lg"><i style="background:#4A154B;font-size:13px">#</i></span><div style="flex:1;min-width:0"><div class="n">Slack <svg class="vf" width="14" height="14" viewBox="0 0 16 16" fill="none" stroke="currentColor" stroke-width="1.3"><path d="M8 1.5l1.6 1.2 2-.1.6 1.9 1.6 1.2-.6 1.9.6 1.9-1.6 1.2-.6 1.9-2-.1L8 14.5l-1.6-1.2-2 .1-.6-1.9-1.6-1.2.6-1.9-.6-1.9 1.6-1.2.6-1.9 2 .1z"/><path d="M5.6 8.2l1.6 1.6 3.2-3.4"/></svg></div><div class="d">Post opened pull requests and failed runs</div><div class="by">by Slack</div></div><span class="add done">✓</span></div><div class="cc"><span class="lg"><i style="background:#4F57C9;font-size:13px">LN</i></span><div style="flex:1;min-width:0"><div class="n">Linear <svg class="vf" width="14" height="14" viewBox="0 0 16 16" fill="none" stroke="currentColor" stroke-width="1.3"><path d="M8 1.5l1.6 1.2 2-.1.6 1.9 1.6 1.2-.6 1.9.6 1.9-1.6 1.2-.6 1.9-2-.1L8 14.5l-1.6-1.2-2 .1-.6-1.9-1.6-1.2.6-1.9-.6-1.9 1.6-1.2.6-1.9 2 .1z"/><path d="M5.6 8.2l1.6 1.6 3.2-3.4"/></svg></div><div class="d">Link wins to issues; file one when a run fails</div><div class="by">by Linear</div></div><span class="add">+</span></div></div></div>
+</div></div></section><section class="screen" id="s6"><div class="win" style="position:relative"><div class="side"><div class="lights" style="padding:4px 8px 14px"><i></i><i></i><i></i></div>
 <div style="display:flex;align-items:center;gap:10px;padding:0 10px 14px"><svg width="26" height="15" viewBox="218 338 600 369"><defs><linearGradient id="brassM" x1="0" y1="0" x2="1" y2="1"><stop offset="0" stop-color="#F8E4B8"/><stop offset=".6" stop-color="#E2BE7C"/><stop offset="1" stop-color="#BE8F49"/></linearGradient></defs><path d="M397.8 434.8L397.8 466.2A31.5 31.5 0 0 1 366.4 434.8Z" fill="#8E9BB2" fill-opacity="0.12"/><path d="M407.7 434.8L407.7 466.2A31.5 31.5 0 0 0 439.2 434.8Z" fill="#8E9BB2" fill-opacity="0.18"/><path d="M361.6 424.9L439.2 424.9A77.6 77.6 0 0 0 361.6 347.3Z" fill="#8E9BB2" fill-opacity="0.28"/><path d="M351.7 471.0L227.9 471.0A123.8 123.8 0 0 1 351.7 347.3Z" fill="#8E9BB2" fill-opacity="0.42"/><path d="M444.0 480.9L444.0 697.0A216.1 216.1 0 0 1 227.9 480.9Z" fill="#8E9BB2" fill-opacity="0.6"/><path d="M453.9 342.5L453.9 697.0A354.5 354.5 0 0 0 808.4 342.5Z" fill="url(#brassM)"/></svg><span class="serif" style="font-size:22px">Ratchet</span></div>
 <div class="nv on"><svg width="15" height="15" viewBox="0 0 16 16" fill="none" stroke="currentColor" stroke-width="1.5" stroke-linecap="round" stroke-linejoin="round"><path d="M8 3v10M3 8h10"/></svg><span>New optimization</span></div>
 <div class="nv "><svg width="15" height="15" viewBox="0 0 16 16" fill="none" stroke="currentColor" stroke-width="1.5" stroke-linecap="round" stroke-linejoin="round"><circle cx="7" cy="7" r="4.5"/><path d="M10.5 10.5 14 14"/></svg><span>Search</span><kbd>⌘K</kbd></div>
